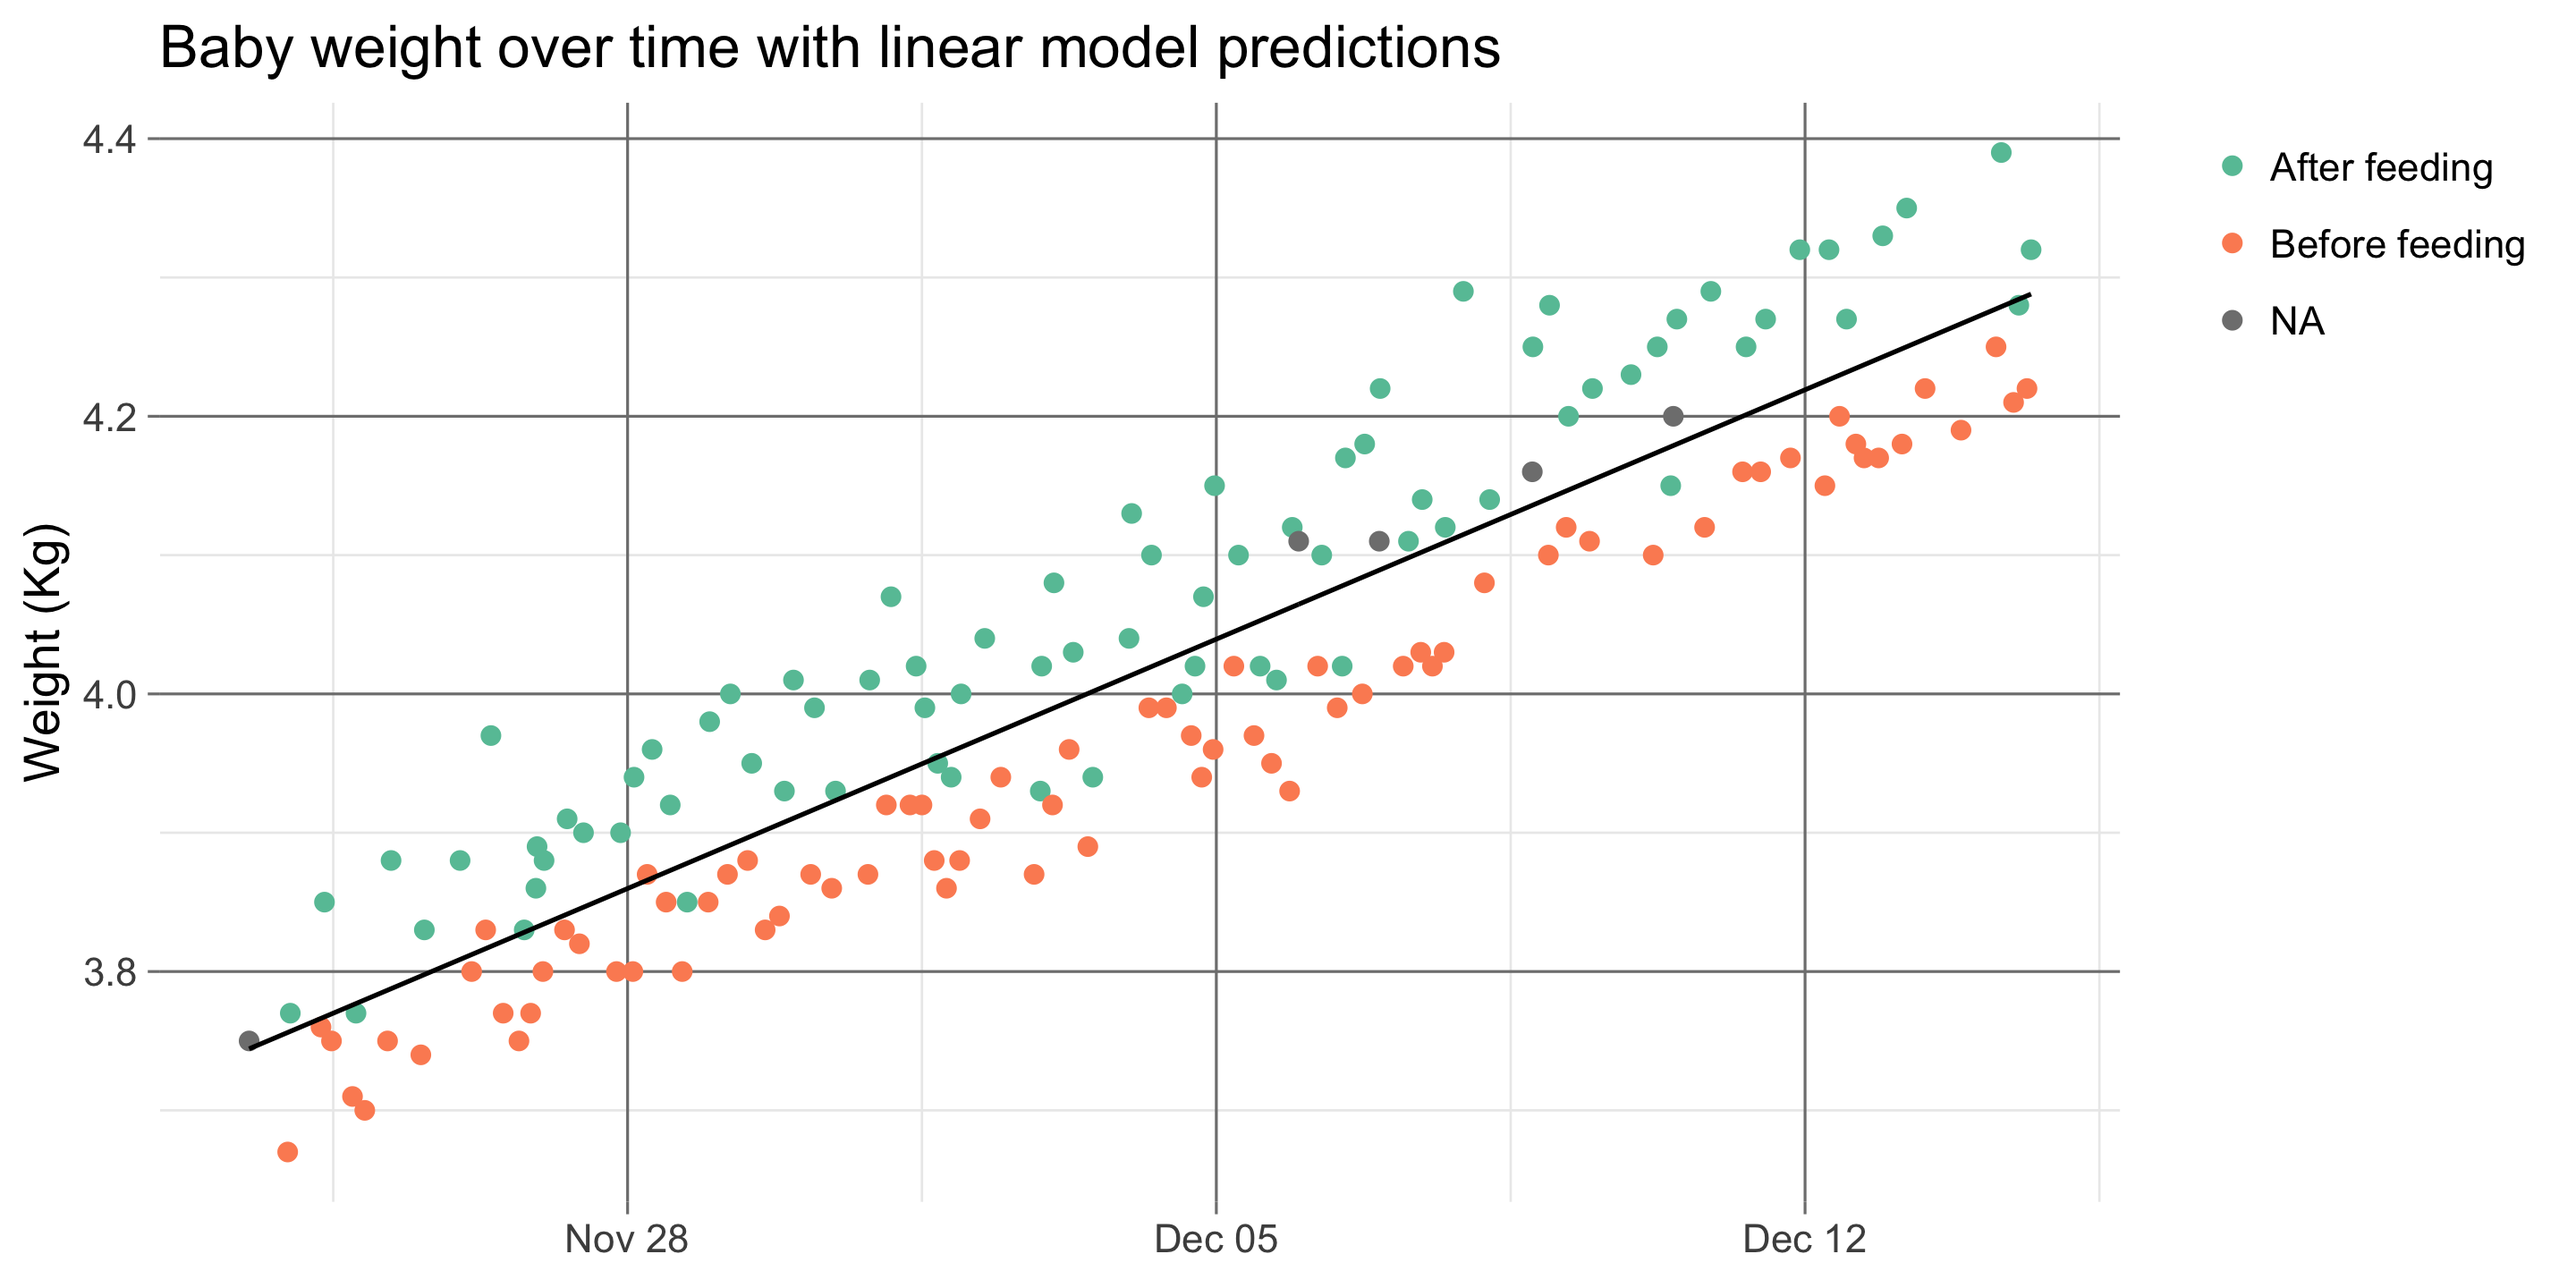
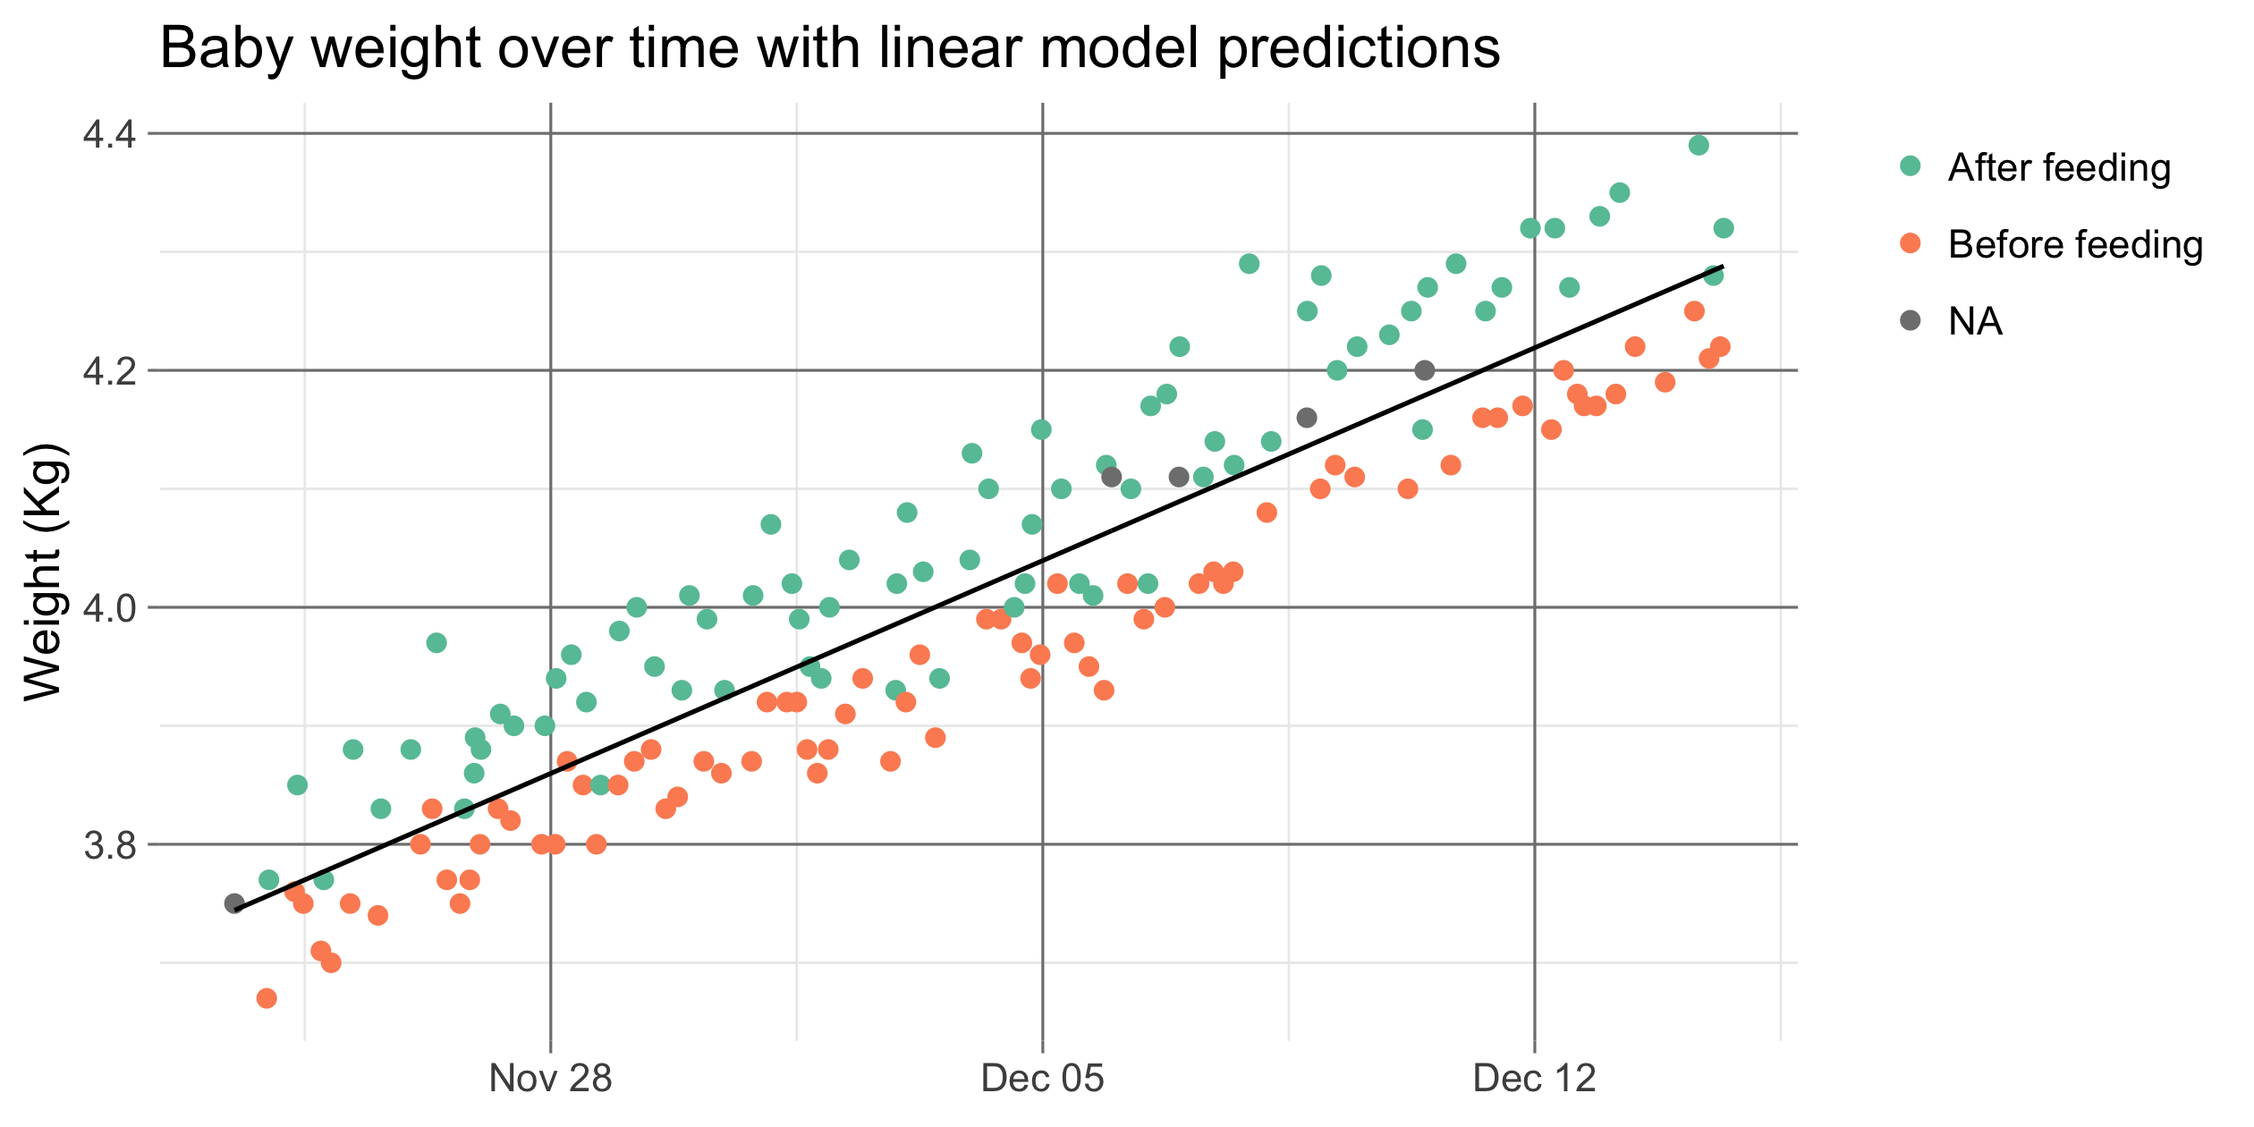
typo and figure size

diff --git a/content/blog/2019-05-01-Baby-weight-analysis.html b/content/blog/2019-05-01-Baby-weight-analysis.html
@@ -7,7 +7,7 @@ comments: true
 twitterImg: /blog/2019-05-01-Baby-weight-analysis_files/figure-html/unnamed-chunk-2-1.png
 categories: [R]
 tags: [R, Breastfeeding, Baby]
-description: An analysis on our son's weight after birth and the overly strong pressure for breast feeding.
+description: An analysis on our son's weight after birth and the overly strong pressure for breastfeeding.
 ---
 
 
@@ -67,7 +67,7 @@ weight_df%&gt;%
   labs(title = &quot;Baby weight over time&quot;,
        y = &#39;Weight (Kg)&#39;)+
   custom_theme</code></pre>
-<p><img src="/blog/2019-05-01-Baby-weight-analysis_files/figure-html/unnamed-chunk-1-1.png" width="1440" /></p>
+<p><img src="/blog/2019-05-01-Baby-weight-analysis_files/figure-html/unnamed-chunk-1-1.png" width="1260" /></p>
 <p>The black lines are the <a href="https://www.who.int/childgrowth/standards/wfa_boys_p_exp.txt">baby weight quantiles</a> provided by the World Health Organization. Our son was right at the median (p50) at birth but gradually lost ground and was dropping below the 5% quantile after 2 months. After struggling for one month we rented a scale to measure him before and after feeding sessions, you can see these measurements as colored dots in the plot.</p>
 </div>
 <div id="taking-matters-in-our-own-hands" class="section level3">
@@ -100,7 +100,7 @@ weight_df%&gt;%
   labs(title = &quot;Baby weight over time&quot;,
        y = &#39;Weight (Kg)&#39;)+
   custom_theme</code></pre>
-<p><img src="/blog/2019-05-01-Baby-weight-analysis_files/figure-html/unnamed-chunk-2-1.png" width="1440" /></p>
+<p><img src="/blog/2019-05-01-Baby-weight-analysis_files/figure-html/unnamed-chunk-2-1.png" width="1260" /></p>
 <p>The results were spectacular, in just one month time the baby raced back past the 50% quantile and kept going. We went from having a skinny baby to a rather chubby one in no time. Fast forward two and a half years and the baby is now a happy toddler doing just fine.</p>
 </div>
 <div id="conclusion" class="section level3">
@@ -128,7 +128,7 @@ linear_df %&gt;%
   labs(title = &quot;Baby weight over time with linear model predictions&quot;,
        y = &#39;Weight (Kg)&#39;)+
   custom_theme</code></pre>
-<p><img src="/blog/2019-05-01-Baby-weight-analysis_files/figure-html/unnamed-chunk-3-1.png" width="1440" /></p>
+<p><img src="/blog/2019-05-01-Baby-weight-analysis_files/figure-html/unnamed-chunk-3-1.png" width="1260" /></p>
 <p>You can see that, while the overall trend is a linear increase, the within-day variance is quite big. There are days where the baby is 100 grams below the linear trendline at one point and 100 grams above it at another.</p>
 <p>Let’s plot the residuals to get a better idea of the spread.</p>
 <pre class="r"><code>augment(model) %&gt;% 
@@ -140,7 +140,7 @@ linear_df %&gt;%
        x = &#39;Weight model residual (Kg)&#39;,
        y = &#39;Count&#39;)+
   custom_theme + theme(legend.key.width = unit(0.32, &quot;cm&quot;))</code></pre>
-<p><img src="/blog/2019-05-01-Baby-weight-analysis_files/figure-html/unnamed-chunk-4-1.png" width="1440" /></p>
+<p><img src="/blog/2019-05-01-Baby-weight-analysis_files/figure-html/unnamed-chunk-4-1.png" width="1260" /></p>
 <p>Since the spread in baby weights is quite big it is hard to tell how much weight a baby has gained over a couple of days time if you only measure the baby once on both days. This was something that bugged me when the nurse would tell us the baby was doing fine after a measured increase of 100 grams over two days somewhere at the beginning of November.</p>
 <p>One side note on the data shown here is that it kind of exaggerates the spread in daily values since we always measured the baby before and after feedings when the differences were most extreme. Because of this, the distribution takes a bimodal shape with measurements before feedings on the left and after feedings on the right. If you’d measure at random points during the day you’d get a normal distribution.</p>
 </div>
